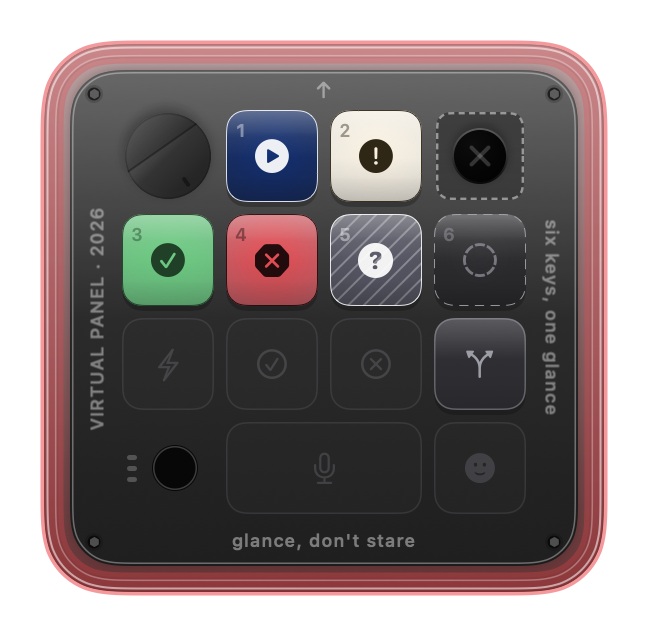
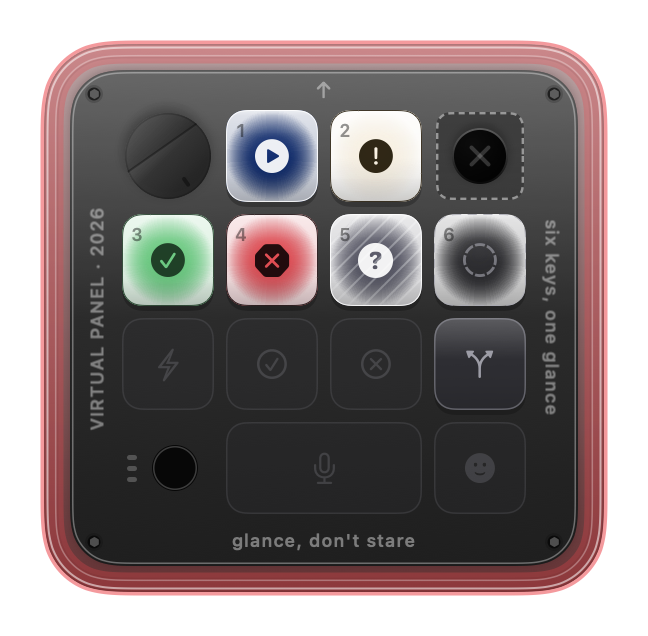
Frosted agent caps; add integration probe
Caps now read as lit plastic: a monotonic white radial over the fill so the
plastic stays white at the rim, plus glow spilling outside the shape onto the
plate. Pigment stops at the edge of plastic; light does not, and that spill is
the strongest cue in the photos that a cap is lit rather than painted.

IMPORTANT check gap found while doing it: the colour suite reads
StateColors.composedKeyFill - the model - not rendered pixels, so it cannot
detect a frosting regression at all. A throwaway probe compositing the real
layer stack caught two the suite missed: an early full-face frost dropped
error's glyph contrast to 3.12:1 and compressed three lit pairs below the
floor. Frost is now held at zero out to r=0.19*side, clearing the glyph, so the
ladder is unchanged to two decimals.

Also: the rendered complete/error pair measures 1.78 against a declared 1.8
floor, because the glow layer composites over the fill. The model says 1.82.
That gap predates this change and the check cannot see it.

VCM_PROBE=1 reports what the live sources see and exits. It confirms transcript
tailing works against real data - it found this very session and read it as
running with an unresolved tool call - and that the hook spool is absent, so
needsInput cannot fire yet.

Changed region(s): [[0.1852, 0.1494, 0.8333, 0.478], [0.6173, 0.2689, 0.6481, 0.2987]]

diff --git a/Sources/VirtualCodexMicro/main.swift b/Sources/VirtualCodexMicro/main.swift
@@ -58,6 +58,33 @@ if ProcessInfo.processInfo.environment["VCM_SELFTEST"] != nil {
     SelfCheck.run()
 }
 
+/// Integration probe: report what the live sources actually see on this machine
+/// and exit. No window, no hooks installed, read-only. Exists because "the panel
+/// shows six keys" says nothing about whether those keys came from real sessions —
+/// stale bindings from an earlier run look identical to fresh discovery.
+if ProcessInfo.processInfo.environment["VCM_PROBE"] != nil {
+    let live = ClaudeTranscriptSource.liveSessions()
+    var source = ClaudeTranscriptSource()
+    let readings = source.poll(now: Date(), liveSessions: live)
+
+    print("live claude processes with a --session-id: \(live.count)")
+    for (id, pid) in live.sorted(by: { $0.key < $1.key }) {
+        print("  pid \(pid)  \(id)")
+    }
+    print("\ntranscript readings: \(readings.count)")
+    let interesting = readings.filter { $0.state != .unknown }
+    print("  states resolved: \(interesting.count), abstained to unknown: \(readings.count - interesting.count)")
+    for r in readings.sorted(by: { $0.observedAt > $1.observedAt }).prefix(12) {
+        let pid = r.pid.map(String.init) ?? "-"
+        print("  \(r.state.rawValue.padding(toLength: 11, withPad: " ", startingAt: 0)) pid=\(pid.padding(toLength: 6, withPad: " ", startingAt: 0)) \(r.sessionID.prefix(8))  \(r.reason)")
+    }
+    let hookSpool = ClaudeHookSource.defaultSpoolDirectory
+    let spoolExists = FileManager.default.fileExists(atPath: hookSpool.path)
+    print("\nhook spool: \(spoolExists ? "present" : "ABSENT — hooks are not installed, so needsInput can never fire")")
+    print("hook events waiting: \(ClaudeHookSource().drainNow().count)")
+    exit(0)
+}
+
 let delegate = AppDelegate()
 let app = NSApplication.shared
 app.delegate = delegate
